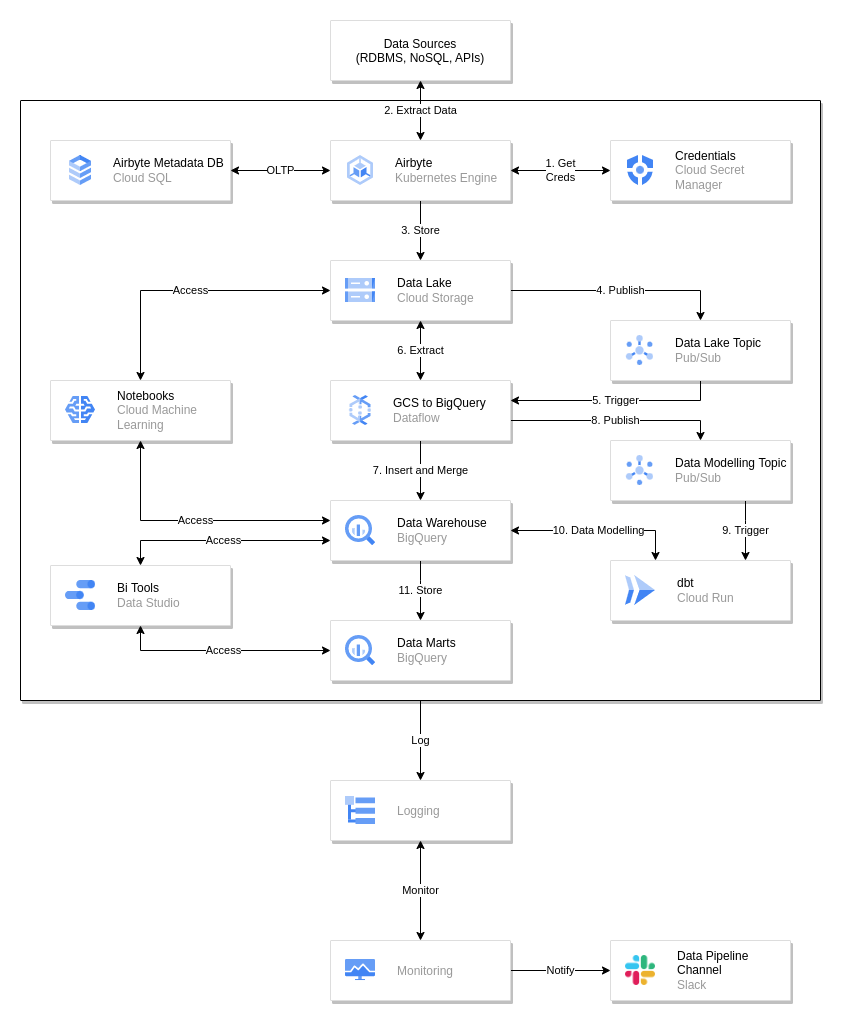
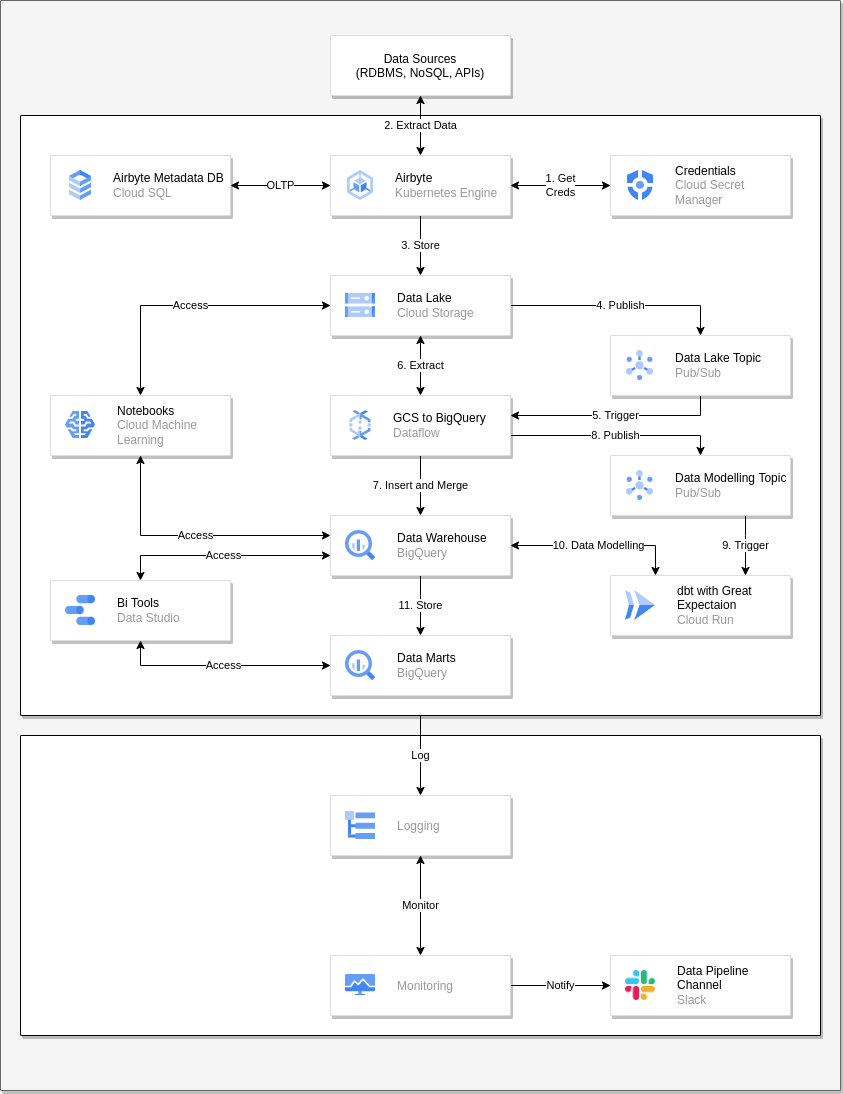
add k8s details and ge

diff --git a/README.md b/README.md
@@ -3,15 +3,15 @@
 ![architecture](architecture.png)
 
 1. The credentials to extract the data from the sources are stored in Secret Manager. So, Airbyte need to get the encrypted credentials from secret manger
-2. Airbyte extract the data from the sources using the credentials that's retrieved from secret manager. Airbyte also uses Cloud SQL as the metadata database as an OLTP.
-3. Airbyte store the extracted data to Data Lake on GCS in `avro` format. The data in Data Lake can be accessed by Data Scientists using AI Platform or Vertex AI.
+2. Airbyte extract the data from the sources using the credentials that's retrieved from secret manager. Tha airbyte is deployed on Kubernetes to take the benefit of autoscaling. Even we cannot scale to 0, it's considerably okay as if there is a stream data source, the airbyte instance doesn't need to scale to 0. Airbyte also uses Cloud SQL as the metadata database as an OLTP.
+3. Airbyte store the extracted data to Data Lake on GCS in `avro` or `parquet` format. The data in Data Lake can be accessed by Data Scientists using AI Platform or Vertex AI.
 4. When the data is stored to GCS, it will publish event to Pub/Sub topic.
 5. The Pub/Sub Topic will trigger the DataFlow Job that'll process the data from GCS to BigQuery.
 6. DataFlow job extract the data from GCS based on the event triggered by Pub/Sub
 7. DataFlow job insert and merge (to deduplicate) the processed data to BigQuery Data Warehouse. The BigQuery Data Warehouse can be accessed by Data Scientists and Data Analysts to gather insights.
 8. When the DataFlow job finished, it will publish event to Pub/Sub Topic.
 9. The Pub/Sub Topic will trigger dbt on Cloud Run.
-10. dbt will perform data modelling on BigQuery Data Warehouse.
+10. dbt will perform data modelling on BigQuery Data Warehouse. This dbt integrated with Great Expectation as a Data Quality Validation Tools.
 11. BigQuery execute the dbt data modelling job and store it to Data Marts. The data on Data Marts can be accessed by Data Analysts using BI Tools like Data Studio.
 
 > Note: All the process are inside GCP environment and those can be linked to Cloud Logging. We can create Cloud Monitoring metrics and alert in case there is an error or unexpected event on logs. The alert can be processed to Slack channel to notify if there is an error or any unsual event happened in log.
